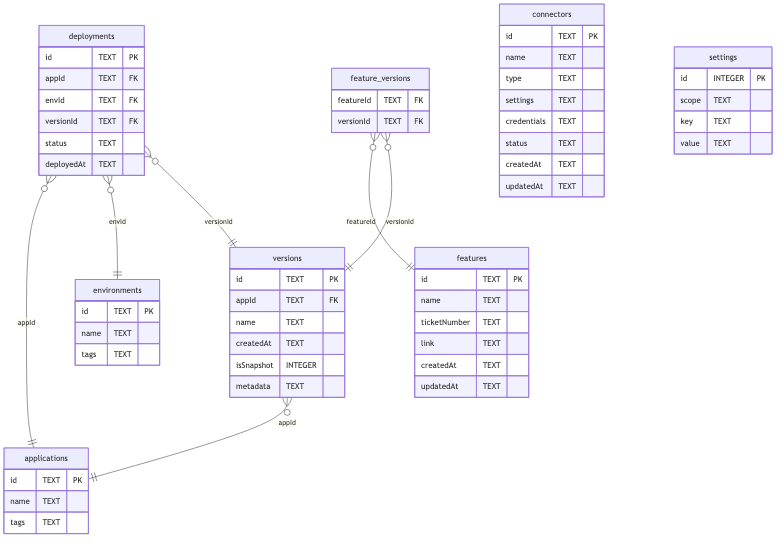
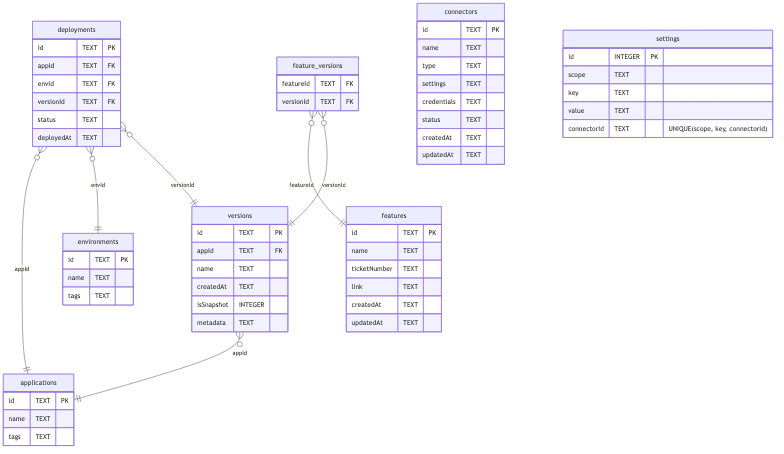
feat: enhance connector settings management by adding connectorId support in API and database schema, improve error handling in settings loading and connection testing

diff --git a/server/api/settings.ts b/server/api/settings.ts
@@ -3,9 +3,14 @@ import db from '../db/index';
 
 export default defineEventHandler(async (event) => {
   if (event.method === 'GET') {
-    const { scope } = getQuery(event);
+    const { scope, connectorId } = getQuery(event);
     if (!scope) return { error: 'Missing scope' };
-    const rows = await db.query('SELECT key, value FROM settings WHERE scope = ?', [scope]);
+    let rows;
+    if (connectorId !== undefined) {
+      rows = await db.query('SELECT key, value, connectorId FROM settings WHERE scope = ? AND (connectorId IS ? OR connectorId = ?)', [scope, connectorId, connectorId]);
+    } else {
+      rows = await db.query('SELECT key, value, connectorId FROM settings WHERE scope = ? AND connectorId IS NULL', [scope]);
+    }
     const settings: Record<string, any> = {};
     for (const row of rows) {
       try {
@@ -18,19 +23,19 @@ export default defineEventHandler(async (event) => {
   }
 
   if (event.method === 'POST') {
-    const { scope, key, value } = await readBody(event);
+    const { scope, key, value, connectorId } = await readBody(event);
     if (!scope || !key) return { error: 'Missing scope or key' };
     await db.execute(
-      'INSERT INTO settings (scope, key, value) VALUES (?, ?, ?) ON CONFLICT(scope, key) DO UPDATE SET value = excluded.value',
-      [scope, key, JSON.stringify(value)]
+      'INSERT INTO settings (scope, key, value, connectorId) VALUES (?, ?, ?, ?) ON CONFLICT(scope, key, connectorId) DO UPDATE SET value = excluded.value',
+      [scope, key, JSON.stringify(value), connectorId || null]
     );
     return { success: true };
   }
 
   if (event.method === 'DELETE') {
-    const { scope, key } = await readBody(event);
+    const { scope, key, connectorId } = await readBody(event);
     if (!scope || !key) return { error: 'Missing scope or key' };
-    await db.execute('DELETE FROM settings WHERE scope = ? AND key = ?', [scope, key]);
+    await db.execute('DELETE FROM settings WHERE scope = ? AND key = ? AND (connectorId IS ? OR connectorId = ?)', [scope, key, connectorId, connectorId]);
     return { success: true };
   }
 

diff --git a/components/ConnectorSettingsForm.vue b/components/ConnectorSettingsForm.vue
@@ -175,9 +175,11 @@ watch(() => props.connectorId, (newId) => {
 async function loadSettings() {
   try {
     const response = await $fetch(`/api/settings?scope=connector:${props.connectorId}`)
-    if (response.success && response.settings) {
+    if (response && response.success && response.settings) {
       // Merge loaded settings with defaults
       Object.assign(settings.value, response.settings)
+    } else if (response && response.error) {
+      showToast && showToast('Failed to load settings: ' + response.error, 'error')
     }
   } catch (error) {
     console.error('Failed to load settings:', error)
@@ -195,11 +197,11 @@ async function saveSettings() {
         body: {
           scope: `connector:${props.connectorId}`,
           key: field.name,
-          value: settings.value[field.name]
+          value: settings.value[field.name],
+          connectorId: props.connectorId
         }
       })
     }
-    
     showToast && showToast('Settings saved successfully!', 'success')
     emit('saved')
   } catch (error) {
@@ -219,10 +221,10 @@ async function testConnection() {
         method: 'POST',
         body: { baseUrl, email, apiToken }
       })
-      if (result.success) {
+      if (result && result.success) {
         showToast && showToast(result.message || 'Jira connection successful!', 'success')
       } else {
-        showToast && showToast(result.message || 'Jira connection failed', 'error')
+        showToast && showToast((result && result.message) || 'Jira connection failed', 'error')
       }
     } else {
       // This would call the connector's test method
@@ -231,7 +233,6 @@ async function testConnection() {
       showToast && showToast('Connection test successful!', 'success')
     }
   } catch (error) {
-    console.error('Connection test failed:', error)
     showToast && showToast('Connection test failed', 'error')
   } finally {
     testing.value = false

diff --git a/server/db/index.ts b/server/db/index.ts
@@ -121,7 +121,8 @@ export async function createTables() {
       scope TEXT NOT NULL,
       key TEXT NOT NULL,
       value TEXT,
-      UNIQUE(scope, key)
+      connectorId TEXT,
+      UNIQUE(scope, key, connectorId)
     )
   `);
 }
